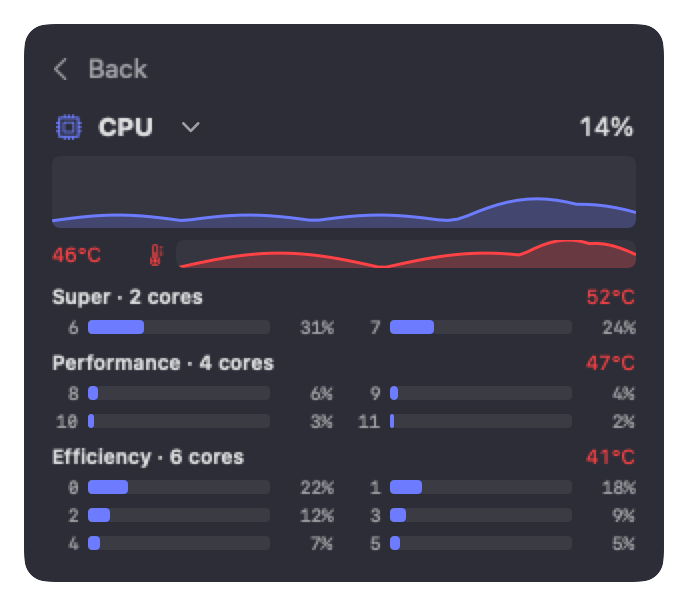
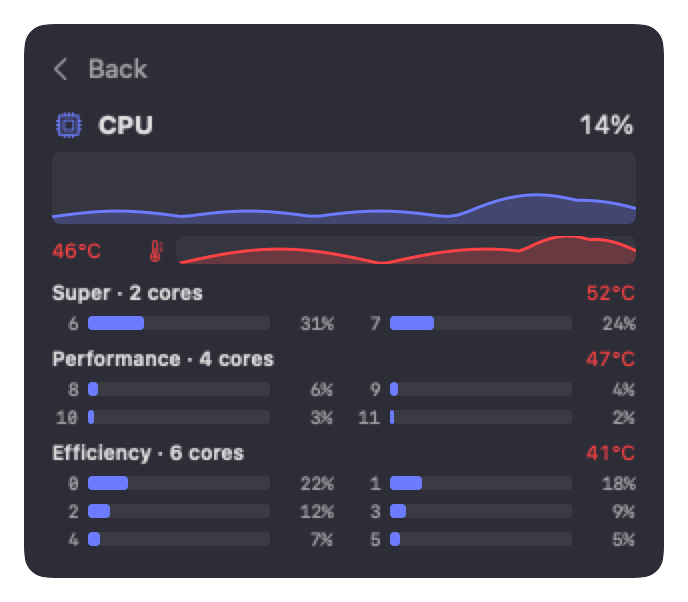
Tile graphs zoom to their own range; CPU and GPU pages show cores automatically (no chevron)

diff --git a/Sources/SystemMonitorApp/PanelView.swift b/Sources/SystemMonitorApp/PanelView.swift
@@ -32,13 +32,16 @@ struct PanelView: View {
     @ObservedObject private var settings: Settings
     @StateObject private var loginItem = LoginItem()
     @State private var showSettings = false
-    /// The item whose full section is open (opened by clicking its tile); nil = the tile overview.
-    @State private var detail: MonitorItem?
+    /// The item whose full page is open (opened by clicking its tile); nil = the tile overview.
+    /// Kept in Settings so the sampler knows when a core view is on screen.
+    private var detail: MonitorItem? {
+        get { settings.openDetail }
+        nonmutating set { settings.openDetail = newValue }
+    }
 
-    init(monitor: Monitor, detail: MonitorItem? = nil) {
+    init(monitor: Monitor) {
         self.monitor = monitor
         self.settings = monitor.settings
-        _detail = State(initialValue: detail)
     }
 
     var body: some View {
@@ -126,12 +129,10 @@ struct PanelView: View {
         return "↓\(f(read)) ↑\(f(write))"
     }
 
-    /// Read plus write as one number, graphed against the busiest moment in the window.
+    /// Read plus write as one number per sample, zoomed like the other tiles.
     private func driveHistory(_ drive: DriveRate?) -> [Double] {
         guard let drive, let samples = monitor.driveHistory[drive.bsdName] else { return [] }
-        let totals = samples.map { $0.read + $0.write }
-        let peak = max(1, totals.max() ?? 1)
-        return totals.map { $0 / peak }
+        return zoomed(samples.map { $0.read + $0.write }, minSpan: 1, floor: 0)
     }
 
     private func tileData(_ item: MonitorItem) -> TileData? {
@@ -139,12 +140,14 @@ struct PanelView: View {
         case .cpu:
             return TileData(id: item, symbol: item.symbol, name: item.title, color: item.color,
                             big: percent(monitor.cpu), small: "\(ProcessInfo.processInfo.activeProcessorCount) cores",
-                            corner: shownTemp(monitor.thermal?.cpuC), history: monitor.cpuHistory)
+                            corner: shownTemp(monitor.thermal?.cpuC),
+                            history: zoomed(monitor.cpuHistory, minSpan: 0.15, floor: 0))
         case .gpu:
             return TileData(id: item, symbol: item.symbol, name: item.title, color: item.color,
                             big: percent(monitor.gpu),
                             small: monitor.gpuDetail.map { "Renderer \(percent($0.renderer))" } ?? "Graphics",
-                            corner: shownTemp(monitor.thermal?.gpuC), history: monitor.gpuHistory)
+                            corner: shownTemp(monitor.thermal?.gpuC),
+                            history: zoomed(monitor.gpuHistory, minSpan: 0.15, floor: 0))
         case .memory:
             guard let ram = monitor.ram else { return nil }
             let warning = ram.pressure == .normal ? nil : (ram.pressure == .warning ? "Pressure" : "Critical")
@@ -153,13 +156,12 @@ struct PanelView: View {
                             small: "\(bytes(ram.usedBytes)) of \(bytes(ram.totalBytes))",
                             corner: shownTemp(monitor.thermal?.ramC) ?? warning,
                             cornerColor: shownTemp(monitor.thermal?.ramC) == nil ? pressureColor(ram.pressure) : .red,
-                            history: monitor.ramHistory)
+                            history: zoomed(monitor.ramHistory, minSpan: 0.04, floor: 0))
         case .power:
-            let peak = max(15, monitor.powerHistory.max() ?? 15)
             return TileData(id: item, symbol: item.symbol, name: item.title, color: item.color,
                             big: monitor.power?.systemWatts.map { String(format: "%.1f W", $0) } ?? "n/a",
                             small: monitor.power?.gpuWatts.map { String(format: "GPU %.2f W", $0) } ?? "Whole system",
-                            corner: nil, history: monitor.powerHistory.map { $0 / peak })
+                            corner: nil, history: zoomed(monitor.powerHistory, minSpan: 3, floor: 0))
         case .drives:
             let drives = monitor.externalDrives
             guard let first = drives.first else {
@@ -205,10 +207,10 @@ struct PanelView: View {
         case .disk: diskSection
         case .cpu: percentSection(.cpu, value: monitor.cpu, history: monitor.cpuHistory,
                                   temp: shownTemp(monitor.thermal?.cpuC), tempHistory: monitor.cpuTempHistory,
-                                  expanded: settings.coreDetails ? $settings.cpuExpanded : nil) { cpuCoresView }
+                                  detail: { if settings.coreDetails { cpuCoresView } })
         case .gpu: percentSection(.gpu, value: monitor.gpu, history: monitor.gpuHistory,
                                   temp: shownTemp(monitor.thermal?.gpuC), tempHistory: monitor.gpuTempHistory,
-                                  expanded: settings.coreDetails ? $settings.gpuExpanded : nil) { gpuDetailView }
+                                  detail: { if settings.coreDetails { gpuDetailView } })
         case .power: powerSection
         case .thermal: thermalSection
         }
@@ -355,26 +357,16 @@ struct PanelView: View {
 
     private func percentSection<Detail: View>(_ item: MonitorItem, value: Double?, history: [Double],
                                               temp: String?, tempHistory: [Double],
-                                              expanded: Binding<Bool>? = nil,
                                               @ViewBuilder detail: () -> Detail) -> some View {
         VStack(alignment: .leading, spacing: 6) {
             HStack {
                 header(item)
-                if let expanded {
-                    Button { withAnimation(.easeInOut(duration: 0.15)) { expanded.wrappedValue.toggle() } } label: {
-                        Image(systemName: "chevron.right").font(.caption.weight(.semibold))
-                            .rotationEffect(.degrees(expanded.wrappedValue ? 90 : 0))
-                            .foregroundStyle(.secondary).frame(width: 18, height: 18).contentShape(Rectangle())
-                    }
-                    .buttonStyle(.plain)
-                    .help(expanded.wrappedValue ? "Hide cores" : "Show cores")
-                }
                 Spacer()
                 Text(value.map { String(format: "%.0f%%", $0 * 100) } ?? "n/a").monospacedDigit()
             }
             HistoryChart(values: history, color: item.color).frame(height: 36)
             tempChart(tempHistory, .red, label: temp, labelColor: item == .cpu ? .red : .secondary)
-            if let expanded, expanded.wrappedValue { detail() }
+            detail()
         }
     }
 
@@ -461,9 +453,8 @@ struct PanelView: View {
                         .frame(width: 42, alignment: .leading)
                 }
                 Image(systemName: "thermometer.medium").font(.system(size: 10)).foregroundStyle(color).frame(width: 12)
-                if history.count > 2, let lo = history.min(), let hi = history.max() {
-                    let span = max(hi - lo, 10)
-                    HistoryChart(values: history.map { ($0 - lo) / span }, color: color).frame(height: 14)
+                if history.count > 2 {
+                    HistoryChart(values: zoomed(history, minSpan: 10), color: color).frame(height: 14)
                 } else {
                     Spacer(minLength: 0)
                 }

diff --git a/Sources/SystemMonitorApp/Settings.swift b/Sources/SystemMonitorApp/Settings.swift
@@ -56,8 +56,6 @@ final class Settings: ObservableObject {
     private static let intervalKey = "updateInterval"
     private static let showTempKey = "showTemperatures"
     private static let coreDetailsKey = "coreDetails"
-    private static let cpuExpandedKey = "cpuExpanded"
-    private static let gpuExpandedKey = "gpuExpanded"
     private static let unitKey = "temperatureUnit"
     private static let chipKey = "chipOverride"
 
@@ -76,16 +74,13 @@ final class Settings: ObservableObject {
     @Published var coreDetails: Bool {
         didSet { UserDefaults.standard.set(coreDetails, forKey: Self.coreDetailsKey) }
     }
-    /// Whether the CPU and GPU boxes are currently expanded (remembered).
-    @Published var cpuExpanded: Bool {
-        didSet { UserDefaults.standard.set(cpuExpanded, forKey: Self.cpuExpandedKey) }
-    }
-    @Published var gpuExpanded: Bool {
-        didSet { UserDefaults.standard.set(gpuExpanded, forKey: Self.gpuExpandedKey) }
-    }
-    /// The core views are only worth sampling when the switch is on and the box is open.
-    var cpuCoresVisible: Bool { coreDetails && cpuExpanded }
-    var gpuDetailVisible: Bool { coreDetails && gpuExpanded }
+    /// The item whose full page is open in the panel (nil = the tile overview). Not saved: the panel
+    /// always opens on the tiles. Opening the CPU or GPU page is what shows its cores or sensors.
+    @Published var openDetail: MonitorItem?
+
+    /// The core views are only worth sampling while their page is open and the switch is on.
+    var cpuCoresVisible: Bool { coreDetails && openDetail == .cpu }
+    var gpuDetailVisible: Bool { coreDetails && openDetail == .gpu }
 
     /// Temperature unit. Readings are always collected in °C and converted when shown.
     @Published var useFahrenheit: Bool {
@@ -121,8 +116,6 @@ final class Settings: ObservableObject {
         panelItems = Self.load(Self.panelKey, default: Set(MonitorItem.allCases))
         hiddenDrives = Set(UserDefaults.standard.stringArray(forKey: Self.hiddenKey) ?? [])
         coreDetails = UserDefaults.standard.bool(forKey: Self.coreDetailsKey)
-        cpuExpanded = UserDefaults.standard.bool(forKey: Self.cpuExpandedKey)
-        gpuExpanded = UserDefaults.standard.bool(forKey: Self.gpuExpandedKey)
         showTemperatures = UserDefaults.standard.object(forKey: Self.showTempKey) as? Bool ?? true
         useFahrenheit = UserDefaults.standard.bool(forKey: Self.unitKey)
         chipOverride = UserDefaults.standard.string(forKey: Self.chipKey).flatMap(ChipFamily.init(rawValue:))

diff --git a/Sources/SystemMonitorApp/SettingsView.swift b/Sources/SystemMonitorApp/SettingsView.swift
@@ -78,7 +78,7 @@ struct SettingsView: View {
                 GridRow {
                     Text("Core details")
                     Toggle("", isOn: $settings.coreDetails).toggleStyle(.checkbox).labelsHidden()
-                        .help("Adds a chevron to the CPU and GPU boxes to show every core")
+                        .help("Shows every core on the CPU page and the sensors on the GPU page")
                 }
                 GridRow {
                     Text("Start at login")
@@ -146,7 +146,7 @@ struct SettingsView: View {
                 definition("Swap used", "Memory moved to the SSD because RAM is full. A lot of swap makes the Mac slower.", nil)
                 definition("Pressure", "How hard macOS works to find free memory. \"Under pressure\" means heavy compressing or swapping.", nil)
                 definition("CPU / GPU temp", "Average of that chip's sensors. Memory temperature only appears on chips that have a memory sensor.", .red)
-                definition("Core details", "Load of each CPU core, grouped as Super, Performance and Efficiency cores, with one temperature per group. Open or close it with the chevron on the CPU and GPU boxes.", .indigo)
+                definition("Core details", "Load of each CPU core, grouped as Super, Performance and Efficiency cores, with one temperature per group. It appears on the CPU page (click the CPU tile).", .indigo)
                 definition("GPU sensors", "macOS gives no per-GPU-core numbers, so Renderer and Tiler load are shown, plus the GPU's separate temperature sensors (S1, S2 ...). Sensors are not cores.", .purple)
                 definition("Avg temp", "Average of the CPU, GPU, memory (if available) and SSD temperatures.", .red)
                 definition("Fan", "Current fan speed in revolutions per minute.", nil)

diff --git a/Sources/SystemMonitorApp/Monitor.swift b/Sources/SystemMonitorApp/Monitor.swift
@@ -14,7 +14,7 @@ struct MonitorState {
     var gpu: Double?
     var power: PowerSnapshot?
     var thermal: ThermalSnapshot?
-    var coreUsage: [Double] = []        // per logical core, 0...1, only while the CPU box is expanded
+    var coreUsage: [Double] = []        // per logical core, 0...1, only while the CPU page is open
     var gpuDetail: GPUDetails?
     var allDrives: [DriveRate] = []
     var ramHistory: [Double] = []
@@ -153,7 +153,7 @@ private final class Sampler {
             // instead of "Waiting for data" for a whole update interval.
             if coresOpened { self.cpu.resetPerCore(); _ = self.cpu.perCoreUsage() }
             if coresOpened || gpuOpened {
-                self.detailRefresh?.cancel()   // chevron clicked repeatedly: keep only the last
+                self.detailRefresh?.cancel()   // pages opened quickly one after another: keep only the last
                 let work = DispatchWorkItem { [weak self] in self?.refreshDetail() }
                 self.detailRefresh = work
                 self.queue.asyncAfter(deadline: .now() + 1, execute: work)
@@ -242,7 +242,7 @@ private final class Sampler {
         onSample?(state)
     }
 
-    /// Per-core load, only while the CPU box is expanded; averaged over the same 5 s window as the
+    /// Per-core load, only while the CPU page is open; averaged over the same 5 s window as the
     /// overall CPU value. When closed, the baseline is dropped so reopening starts fresh.
     private func sampleCores() {
         guard cpuCores, shown.contains(.cpu) else {

diff --git a/Tests/SystemMonitorCoreTests/CollectorTests.swift b/Tests/SystemMonitorCoreTests/CollectorTests.swift
@@ -170,4 +170,30 @@ final class CollectorTests: XCTestCase {
         for (_, c) in t.clusterC { XCTAssertTrue(c > 0 && c < 130, "cluster temp \(c)") }
         for c in t.gpuSensorsC { XCTAssertTrue(c > 0 && c < 130, "gpu sensor \(c)") }
     }
+
+    // MARK: Graph zoom
+
+    func testZoomedFlatSeriesStaysFlatAndCentred() {
+        let z = zoomed([0.68, 0.68, 0.68], minSpan: 0.04, floor: 0)
+        XCTAssertEqual(z.count, 3)
+        for v in z { XCTAssertEqual(v, 0.5, accuracy: 0.001) }
+    }
+
+    func testZoomedUsesTheRecentRangeAndKeepsOrder() {
+        let z = zoomed([0.02, 0.05, 0.40, 0.05], minSpan: 0.15, floor: 0)
+        XCTAssertEqual(z.min()!, 0, accuracy: 0.001)
+        XCTAssertEqual(z.max()!, 1, accuracy: 0.001)
+        XCTAssertTrue(z[2] > z[1] && z[1] > z[0])
+    }
+
+    func testZoomedRespectsFloorAndMinimumSpan() {
+        // A tiny wobble is not blown up: 0.01 to 0.03 with a 0.15 minimum span stays in the lower part.
+        let z = zoomed([0.01, 0.03], minSpan: 0.15, floor: 0)
+        XCTAssertEqual(z[0], 0.01 / 0.15, accuracy: 0.001)
+        XCTAssertTrue(z[1] < 0.3)
+    }
+
+    func testZoomedEmpty() {
+        XCTAssertEqual(zoomed([], minSpan: 1), [])
+    }
 }

diff --git a/Sources/SystemMonitorApp/ScreenshotMode.swift b/Sources/SystemMonitorApp/ScreenshotMode.swift
@@ -16,8 +16,6 @@ enum ScreenshotMode {
         monitor.settings.panelItems = [.memory, .drives, .disk, .power, .thermal, .cpu, .gpu]
         monitor.settings.hiddenDrives = []
         monitor.settings.coreDetails = true
-        monitor.settings.cpuExpanded = true
-        monitor.settings.gpuExpanded = true
 
         // Menu bar strip: the icon on a dark menu-bar-like background.
         let icon = IconRenderer.image(cells: monitor.iconCells())
@@ -31,7 +29,8 @@ enum ScreenshotMode {
 
         // Panels: the real SwiftUI views on a rounded dark card, like the popover.
         renderPanel(PanelView(monitor: monitor), to: "\(outputDir)/panel.png")
-        renderPanel(PanelView(monitor: monitor, detail: .cpu), to: "\(outputDir)/panel-cpu.png")
+        monitor.settings.openDetail = .cpu
+        renderPanel(PanelView(monitor: monitor), to: "\(outputDir)/panel-cpu.png")
     }
 
     private static func renderPanel(_ panel: PanelView, to path: String) {

diff --git a/Sources/SystemMonitorCore/Series.swift b/Sources/SystemMonitorCore/Series.swift
@@ -1,0 +1,13 @@
+import Foundation
+
+/// Maps a history to 0...1 over its own recent range, so a graph always shows detail: a 5% CPU
+/// line and a steady 68% memory line are not squashed against an absolute 0...100% scale.
+/// `minSpan` keeps tiny wobbles from being blown up into noise: a flat line stays flat, centred.
+/// `floor` stops the range going below a natural minimum (a load or speed cannot be negative).
+public func zoomed(_ values: [Double], minSpan: Double, floor: Double? = nil) -> [Double] {
+    guard let hi = values.max(), let lo = values.min() else { return [] }
+    let span = max(hi - lo, minSpan)
+    var bottom = (hi + lo) / 2 - span / 2          // centre the data in the range
+    if let floor, bottom < floor { bottom = floor }
+    return values.map { ($0 - bottom) / span }
+}

diff --git a/Sources/SystemMonitorApp/Tiles.swift b/Sources/SystemMonitorApp/Tiles.swift
@@ -35,7 +35,7 @@ struct Tile: View {
                 Text(data.big).font(.system(size: 20, weight: .semibold)).monospacedDigit()
                     .lineLimit(1).minimumScaleFactor(0.7)
                 Text(data.small).font(.system(size: 10)).foregroundStyle(.secondary).lineLimit(1)
-                HistoryChart(values: data.history, color: data.color).frame(height: 22)
+                HistoryChart(values: data.history, color: data.color).frame(height: 28)
             }
             .padding(10)
             .frame(maxWidth: .infinity, alignment: .leading)

diff --git a/Sources/SystemMonitorApp/main.swift b/Sources/SystemMonitorApp/main.swift
@@ -83,5 +83,6 @@ final class AppDelegate: NSObject, NSApplicationDelegate, NSPopoverDelegate {
 
     func popoverDidClose(_ notification: Notification) {
         popover.contentViewController = nil   // frees the SwiftUI view tree
+        monitor.settings.openDetail = nil     // next time the panel opens on the tiles; stops core sampling
     }
 }

diff --git a/CHANGELOG.md b/CHANGELOG.md
@@ -2,9 +2,10 @@
 
 ## 0.4.0 (unreleased)
 
+- Tile graphs zoom to their own recent range, so they always show detail.
 - The panel is now a grid of tiles (big number, caption, small graph, temperature). Click a tile for its full chart, cores or legend. About half the height of the old panel.
 - Settings: Update every and Temperatures (Off, °C, °F) are single segmented controls; chip choice and definitions moved to their own page.
-- Core details (Settings, off by default): expand the CPU box to see every core's load grouped by core class with a temperature per class, and the GPU box for Renderer/Tiler load and the GPU's temperature sensors. Per-cluster temperatures are checked on the M6 only.
+- Core details (Settings, off by default): the CPU page shows every core's load grouped by core class with a temperature per class, and the GPU page shows Renderer/Tiler load and the GPU's temperature sensors. Per-cluster temperatures are checked on the M6 only.
 - `powermon --cluster-probe` finds which temperature sensors belong to which core class by loading one class at a time.
 - **Temperatures are now available.** CPU, GPU, SSD (and memory where the chip has a sensor) in each panel section with a small graph, plus an "Avg temp & fan" item. Definitions of the memory terms added to Settings.
 - Optional Temperature item: CPU, GPU and SSD temperature plus fan speed, read without admin rights. Hidden when a Mac does not expose the sensors.
